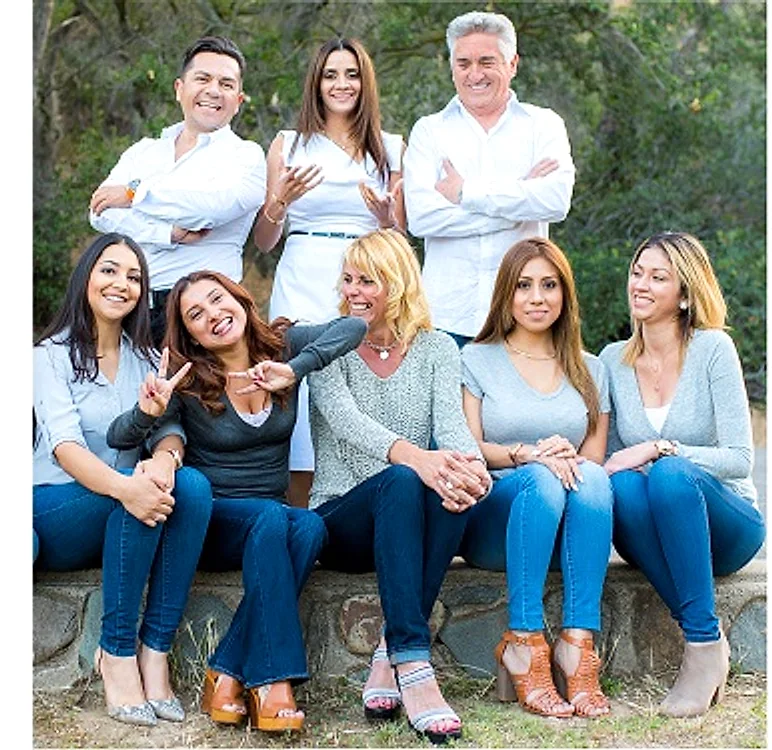
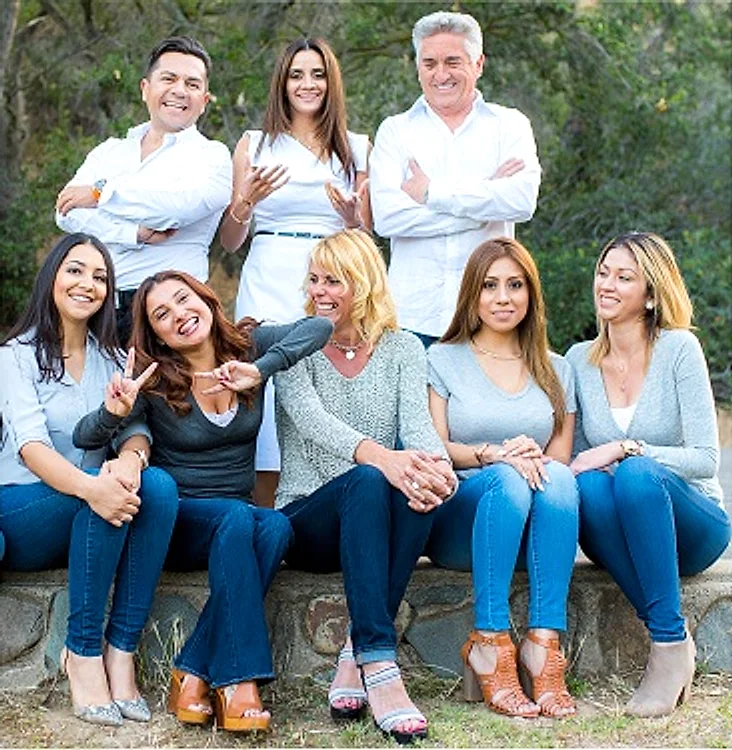
Spanish page parity: team section and review badges with the Spanish patient quote

diff --git a/src/content/espanol.ts b/src/content/espanol.ts
@@ -27,4 +27,26 @@ export const espanol = {
     "Llame al (714) 540-7101 y con gusto le atendemos en español, o mande su solicitud en línea y nosotros le llamamos para confirmar su cita.",
   citaCta: "Hacer una Cita",
   llamarCta: "Llamar Ahora",
+  equipoLabel: "Nuestro Equipo",
+  equipoHeading: "Caras conocidas en cada visita",
+  equipo:
+    "Las personas que lo reciben, limpian sus dientes y responden sus preguntas son las mismas en cada visita. El Dr. Begino y el Dr. Lazaro dirigen un equipo pequeño y bilingüe que ha cuidado a las familias de Santa Ana por años.",
+  equipoFotoAlt: "El equipo de Bristol Family Dental Center reunido al aire libre",
+  equipoRoles: {
+    "Lead Dentist": "Dentista Principal",
+    "Dentist": "Dentista",
+    "Office Manager": "Gerente de Oficina",
+    "Front Office": "Recepción",
+    "Dental Assistant": "Asistente Dental",
+  } as Record<string, string>,
+  resenasLabel: "Reseñas de Pacientes",
+  resenasHeading: "Lo que dicen nuestros pacientes",
+  resenas:
+    "Reseñas reales de pacientes reales. Puede leerlas todas en la plataforma que prefiera.",
+  resenasCounts: {
+    Yelp: "51 reseñas",
+    Google: "38 reseñas",
+    Facebook: "29 reseñas (vía Birdeye)",
+  } as Record<string, string>,
+  recomendado: "Recomendado",
 };
